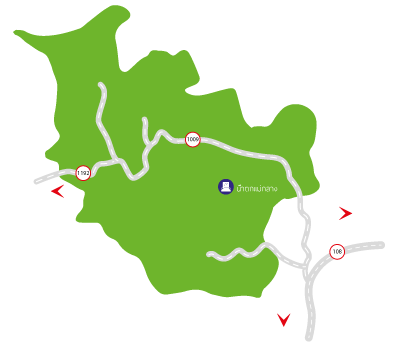
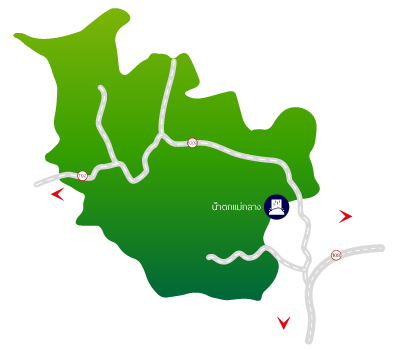
v.2.5
อีก 1 หน้า เย้ๆ

diff --git a/phonegap/inthanonapp/www/contact.html b/phonegap/inthanonapp/www/contact.html
@@ -97,35 +97,20 @@
 		<!-- ##### BEGIN CONTENT ##### -->
 		<main role="main" class="">
 			<div class="content-zone ">
-
 					<div class="container my-2 mt-4 ">
-
 							<!-- BEGIN CONTENT -->
-
-								<a href="tel:0-5328-6729" class="btn btn-warning btn-md btn-block mb-2"><img src="assets/img-contact/telephone.png" alt="โทรศัพท์" width="20px"  class="mb-1"/><span class="text-white font-special-style"> : 0-5328-6729 (ศูนย์บริการข้อมูลนักท่องเที่ยว,จองที่พัก)</span></a>
-
-							<div class="bg-warning col-12 mb-2 rounded">
-								<img src="assets/img-contact/fax.png" alt="แฟลกซ์" width="20px"  class="mb-1"/><span class="text-white font-special-style"> : 0-5328-6727 </span></a>
-							</div>
-							<div class="bg-warning col-12 mb-2 rounded">
-								<a href="tel:0-5328-6728"><img src="assets/img-contact/siren.png" alt="เบอร์ฉุกเฉิน" width="20px"  class="mb-1"/><span class="text-white font-special-style"> : 0-5328-6728 </span></a>
-							</div>
-							<div class="bg-warning col-12 mb-2 rounded">
-								<img src="assets/img-contact/home.png" alt="สถานที่ติดต่อ" width="20px"  class="mb-1"/><span class="text-white font-special-style"> : 119 หมู่ 7 ต.บ้านหลวง อ.จอมทอง จ.เชียงใหม่ </span></a>
-							</div>
-							<div class="bg-warning col-12 mb-2 rounded">
-								<a href="mail to:doiinthanonnp@hotmail.com"><img src="assets/img-contact/mail.png" alt="โทรศัพท์" width="20px"  class="mb-1"/><span class="text-white font-special-style"> : doiinthanonnp@hotmail.com</span></a>
-							</div>
+							<a href="tel:0-5328-6729" class="btn btn-warning btn-md btn-block mb-2"><img src="assets/img-contact/telephone.png" alt="โทรศัพท์" width="20px"><span class="text-white font-special-style"> : 0-5328-6729 (ศูนย์บริการข้อมูลนักท่องเที่ยว,จองที่พัก)</span></a>
+							<a href="#" class="btn btn-warning btn-md btn-block mb-2"><img src="assets/img-contact/fax.png" alt="แฟลกซ์" width="20px"><span class="text-white font-special-style"> : 0-5328-6727</span></a>
+							<a href="tel:0-5328-6728" class="btn btn-warning btn-md btn-block mb-2"><img src="assets/img-contact/siren.png" alt="เบอร์ฉุกเฉิน" width="20px" ><span class="text-white font-special-style"> : 0-5328-6728</span></a>
+							<a href="#" class="btn btn-warning btn-md btn-block mb-2"><img src="assets/img-contact/home.png" alt="สถานที่ติดต่อ" width="20px" ><span class="text-white font-special-style"> : 119 หมู่ 7 ต.บ้านหลวง อ.จอมทอง จ.เชียงใหม่</span></a>
+							<a href="mailto:doiinthanonnp@hotmail.com" class="btn btn-warning btn-md btn-block mb-2"><img src="assets/img-contact/mail.png" alt="อีเมล" width="20px" ><span class="text-white font-special-style"> : doiinthanonnp@hotmail.com</span></a>
+					</div>
 							<!-- END CONTENT -->
-						</div>
-
 						<div class="container my-2 mt-4 bg-dark">
 					<br>
-					<br>
-					<br>
-							<a href="assets/img-map/map-maeklang.png" class="image-link "><img src="assets/img-map/map-maeklang.png" class="img-fluid mb-2 border border-white rounded "></a>
-					<br>
-					<br>
+							<center>
+							<a href="assets/img-map/map-center.png" class="image-link "><img src="assets/img-map/map-center.png" class="img-fluid mb-2 border border-white rounded"></a>
+							</center>
 					<br>
 						</div>
 			</div>

diff --git a/phonegap/inthanonapp/www/assets/css/inthanon.css b/phonegap/inthanonapp/www/assets/css/inthanon.css
@@ -94,3 +94,14 @@ body.background{
 	background: linear-gradient(to right, rgba(194,0,0,1) 0%, rgba(194,0,0,1) 44%, rgba(194,0,0,1) 100%);
 	filter: progid:DXImageTransform.Microsoft.gradient( startColorstr='#c20000', endColorstr='#c20000', GradientType=1 );
 }
+
+.bg-dark{
+	background: rgba(0,0,0,1);
+	background: -moz-linear-gradient(left, rgba(0,0,0,1) 0%, rgba(0,0,0,1) 100%);
+	background: -webkit-gradient(left top, right top, color-stop(0%, rgba(0,0,0,1)), color-stop(100%, rgba(0,0,0,1)));
+	background: -webkit-linear-gradient(left, rgba(0,0,0,1) 0%, rgba(0,0,0,1) 100%);
+	background: -o-linear-gradient(left, rgba(0,0,0,1) 0%, rgba(0,0,0,1) 100%);
+	background: -ms-linear-gradient(left, rgba(0,0,0,1) 0%, rgba(0,0,0,1) 100%);
+	background: linear-gradient(to right, rgba(0,0,0,1) 0%, rgba(0,0,0,1) 100%);
+	filter: progid:DXImageTransform.Microsoft.gradient( startColorstr='#000000', endColorstr='#000000', GradientType=1 );
+}

diff --git a/phonegap/inthanonapp/www/doi-inthanon.html b/phonegap/inthanonapp/www/doi-inthanon.html
@@ -175,7 +175,7 @@
 					<h3 class="text-white font-special-style"> <img src="assets/icon-page/map.png" width="15px" class="mb-1 mr-2">แผนที่</h3>
 
 				</div>
-				<a href="assets/img-map/map-maeklang.png" class="image-link "><img src="assets/img-map/map-maeklang.png" class="img-fluid mb-2 border border-white rounded"> </a>
+				<a href="assets/img-map/map-doiinthanon.png" class="image-link "><img src="assets/img-map/map-doiinthanon.png" class="img-fluid mb-2 border border-white rounded"> </a>
 				<!-- ===END MAP==== -->
 			</div>
 			<br>
